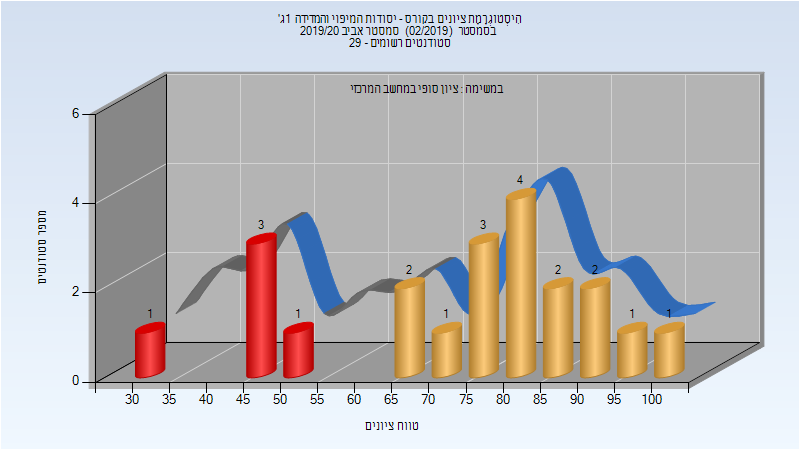
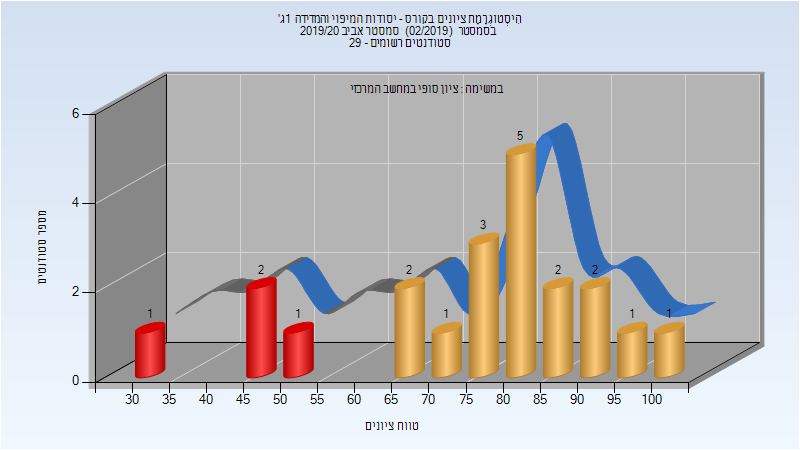
Deploy michael-maltsev/technion-histograms to github.com/michael-maltsev/technion-histograms.git:gh-pages

Changed region(s): [[0.2188, 0.4667, 0.4688, 0.7156], [0.625, 0.28, 0.75, 0.56], [0.7188, 0.56, 0.7812, 0.6222]]

diff --git a/014845/index.html b/014845/index.html
@@ -339,5 +339,57 @@
 </tr>
 </tbody>
 </table>
+<h3>סופי מועד ב'</h3>
+<p><img src="201902/Final_B.png" alt="201902 Final_B" /></p>
+<table>
+<thead>
+<tr>
+<th>סטודנטים</th>
+<th>עברו/נכשלו</th>
+<th>אחוז עוברים</th>
+<th>ציון מינימלי</th>
+<th>ציון מקסימלי</th>
+<th>ממוצע</th>
+<th>חציון</th>
+</tr>
+</thead>
+<tbody>
+<tr>
+<td>37</td>
+<td>33/4</td>
+<td>89</td>
+<td>22</td>
+<td>99</td>
+<td>74.216</td>
+<td>76</td>
+</tr>
+</tbody>
+</table>
+<h3>סופי</h3>
+<p><img src="201902/Finals.png" alt="201902 Finals" /></p>
+<table>
+<thead>
+<tr>
+<th>סטודנטים</th>
+<th>עברו/נכשלו</th>
+<th>אחוז עוברים</th>
+<th>ציון מינימלי</th>
+<th>ציון מקסימלי</th>
+<th>ממוצע</th>
+<th>חציון</th>
+</tr>
+</thead>
+<tbody>
+<tr>
+<td>37</td>
+<td>33/4</td>
+<td>89</td>
+<td>22</td>
+<td>99</td>
+<td>74.216</td>
+<td>76</td>
+</tr>
+</tbody>
+</table>
   </body>
 </html>

diff --git a/014881/index.html b/014881/index.html
@@ -434,12 +434,12 @@
 <tbody>
 <tr>
 <td>21</td>
-<td>16/5</td>
-<td>76</td>
+<td>17/4</td>
+<td>81</td>
 <td>32</td>
 <td>100</td>
-<td>73.095</td>
-<td>77</td>
+<td>74.81</td>
+<td>81</td>
 </tr>
 </tbody>
 </table>

diff --git a/014845/README.md b/014845/README.md
@@ -102,3 +102,19 @@
 | ---- | ---- | ---- | ---- | ---- | ---- | ---- |
 | 37 | 30/7 | 81 | 0 | 99 | 67.459 | 69 |
 
+### סופי מועד ב'
+
+![201902 Final_B](201902/Final_B.png)
+
+| סטודנטים | עברו/נכשלו | אחוז עוברים | ציון מינימלי | ציון מקסימלי | ממוצע | חציון |
+| ---- | ---- | ---- | ---- | ---- | ---- | ---- |
+| 37 | 33/4 | 89 | 22 | 99 | 74.216 | 76 |
+
+### סופי
+
+![201902 Finals](201902/Finals.png)
+
+| סטודנטים | עברו/נכשלו | אחוז עוברים | ציון מינימלי | ציון מקסימלי | ממוצע | חציון |
+| ---- | ---- | ---- | ---- | ---- | ---- | ---- |
+| 37 | 33/4 | 89 | 22 | 99 | 74.216 | 76 |
+

diff --git a/014881/README.md b/014881/README.md
@@ -126,5 +126,5 @@
 
 | סטודנטים | עברו/נכשלו | אחוז עוברים | ציון מינימלי | ציון מקסימלי | ממוצע | חציון |
 | ---- | ---- | ---- | ---- | ---- | ---- | ---- |
-| 21 | 16/5 | 76 | 32 | 100 | 73.095 | 77 |
+| 21 | 17/4 | 81 | 32 | 100 | 74.81 | 81 |
 
